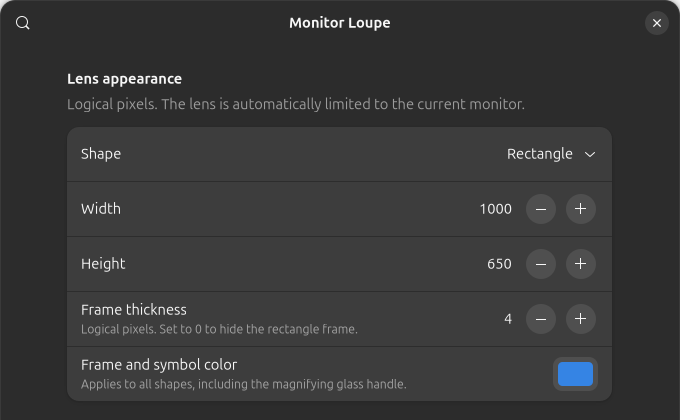
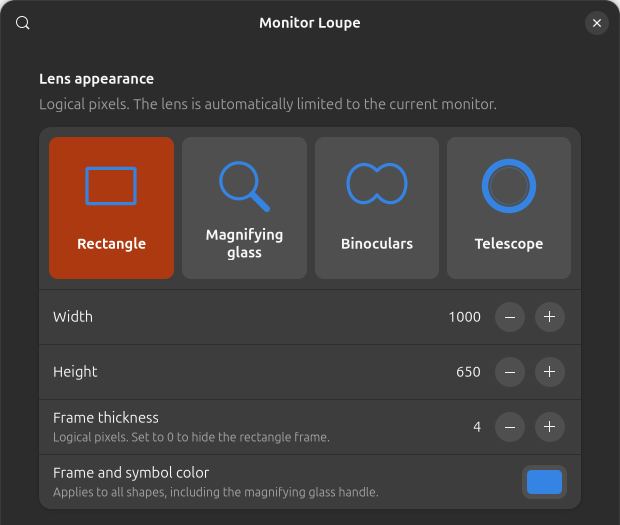
Replace lens dropdown with four illustrated selection tiles

diff --git a/prefs.js b/prefs.js
@@ -23,11 +23,39 @@ export default class MonitorLoupePreferences extends ExtensionPreferences {
         });
         page.add(lens);
         const shapes = ['rectangle', 'loupe', 'binoculars', 'telescope'];
-        const shape = new Adw.ComboRow({
-            title: _('Shape'),
-            model: Gtk.StringList.new([_('Rectangle'), _('Magnifying glass'), _('Binoculars'), _('Telescope')]),
+        const titles = [_('Rectangle'), _('Magnifying glass'), _('Binoculars'), _('Telescope')];
+        const shapeGrid = new Gtk.Box({
+            orientation: Gtk.Orientation.HORIZONTAL, homogeneous: true,
+            spacing: 8, margin_top: 8, margin_bottom: 8,
+            margin_start: 8, margin_end: 8,
         });
-        lens.add(shape);
+        let updatingShape = false;
+        const shapeButtons = shapes.map((value, index) => {
+            const button = new Gtk.ToggleButton({hexpand: true, tooltip_text: titles[index]});
+            button.update_property([Gtk.AccessibleProperty.LABEL], [titles[index]]);
+            const content = new Gtk.Box({
+                orientation: Gtk.Orientation.VERTICAL, spacing: 8,
+                margin_top: 12, margin_bottom: 12,
+            });
+            content.append(new Gtk.Image({
+                gicon: new Gio.FileIcon({file: this.dir.get_child('icons').get_child(`${value}.svg`)}),
+                pixel_size: 64,
+            }));
+            content.append(new Gtk.Label({
+                label: titles[index], wrap: true, justify: Gtk.Justification.CENTER,
+                height_request: 36,
+            }));
+            button.child = content;
+            button.connect('toggled', () => {
+                if (!updatingShape && button.active && value !== settings.get_string('lens-shape'))
+                    settings.set_string('lens-shape', value);
+            });
+            shapeGrid.append(button);
+            return button;
+        });
+        for (const button of shapeButtons.slice(1))
+            button.set_group(shapeButtons[0]);
+        lens.add(new Adw.PreferencesRow({child: shapeGrid, activatable: false, selectable: false}));
         const width = this._spin(lens, settings, 'lens-width', _('Width'), 160, 7680, 20, 0);
         const height = this._spin(lens, settings, 'lens-height', _('Height'), 90, 4320, 10, 0);
         const radius = this._spin(lens, settings, 'lens-radius', _('Radius'), 60, 2160, 10, 0);
@@ -68,18 +96,21 @@ export default class MonitorLoupePreferences extends ExtensionPreferences {
         lens.add(colorRow);
         const updateShape = () => {
             const selected = shapes.indexOf(settings.get_string('lens-shape'));
-            shape.selected = selected;
-            shape.sensitive = settings.is_writable('lens-shape');
+            updatingShape = true;
+            shapeButtons.forEach((button, index) => {
+                button.active = index === selected;
+                button.sensitive = settings.is_writable('lens-shape');
+                if (button.active)
+                    button.add_css_class('suggested-action');
+                else
+                    button.remove_css_class('suggested-action');
+            });
+            updatingShape = false;
             width.visible = height.visible = selected === 0;
             border.visible = selected === 0;
             radius.visible = selected !== 0;
         };
         updateShape();
-        shape.connect('notify::selected', () => {
-            const value = shapes[shape.selected];
-            if (value && value !== settings.get_string('lens-shape'))
-                settings.set_string('lens-shape', value);
-        });
         connections.push([settings, settings.connect('changed::lens-shape', updateShape)]);
 
         const zoom = new Adw.PreferencesGroup({title: _('Zoom')});

diff --git a/README.de.md b/README.de.md
@@ -17,6 +17,8 @@ bleibt. Auch der vergrößerte Quellbereich bleibt innerhalb dieses Monitors.
 
 Die **Rahmen- und Symbolfarbe** ist für alle vier Ansichten frei wählbar. Die Lupe
 folgt dem Mauszeiger und passt sich mitsamt Rahmen und Griff an den aktuellen Monitor an.
+Wähle die Form über eines der **vier Symbolfelder ganz oben in den Einstellungen**.
+Das aktive Feld ist hervorgehoben; darunter erscheinen die passenden Größenregler.
 
 ## Neue Einstellungen im Bild
 

diff --git a/README.md b/README.md
@@ -18,6 +18,8 @@ edges and with displays arranged above, below or to the left of each other.
 
 Choose a **frame and symbol color** for all four views. The lens follows your
 pointer and scales down to fit the current monitor, including its frame and handle.
+Select a shape by clicking one of the **four illustrated tiles at the top of the
+preferences**. The selected tile is highlighted; the matching size controls appear below.
 
 ## Why Monitor Loupe
 
